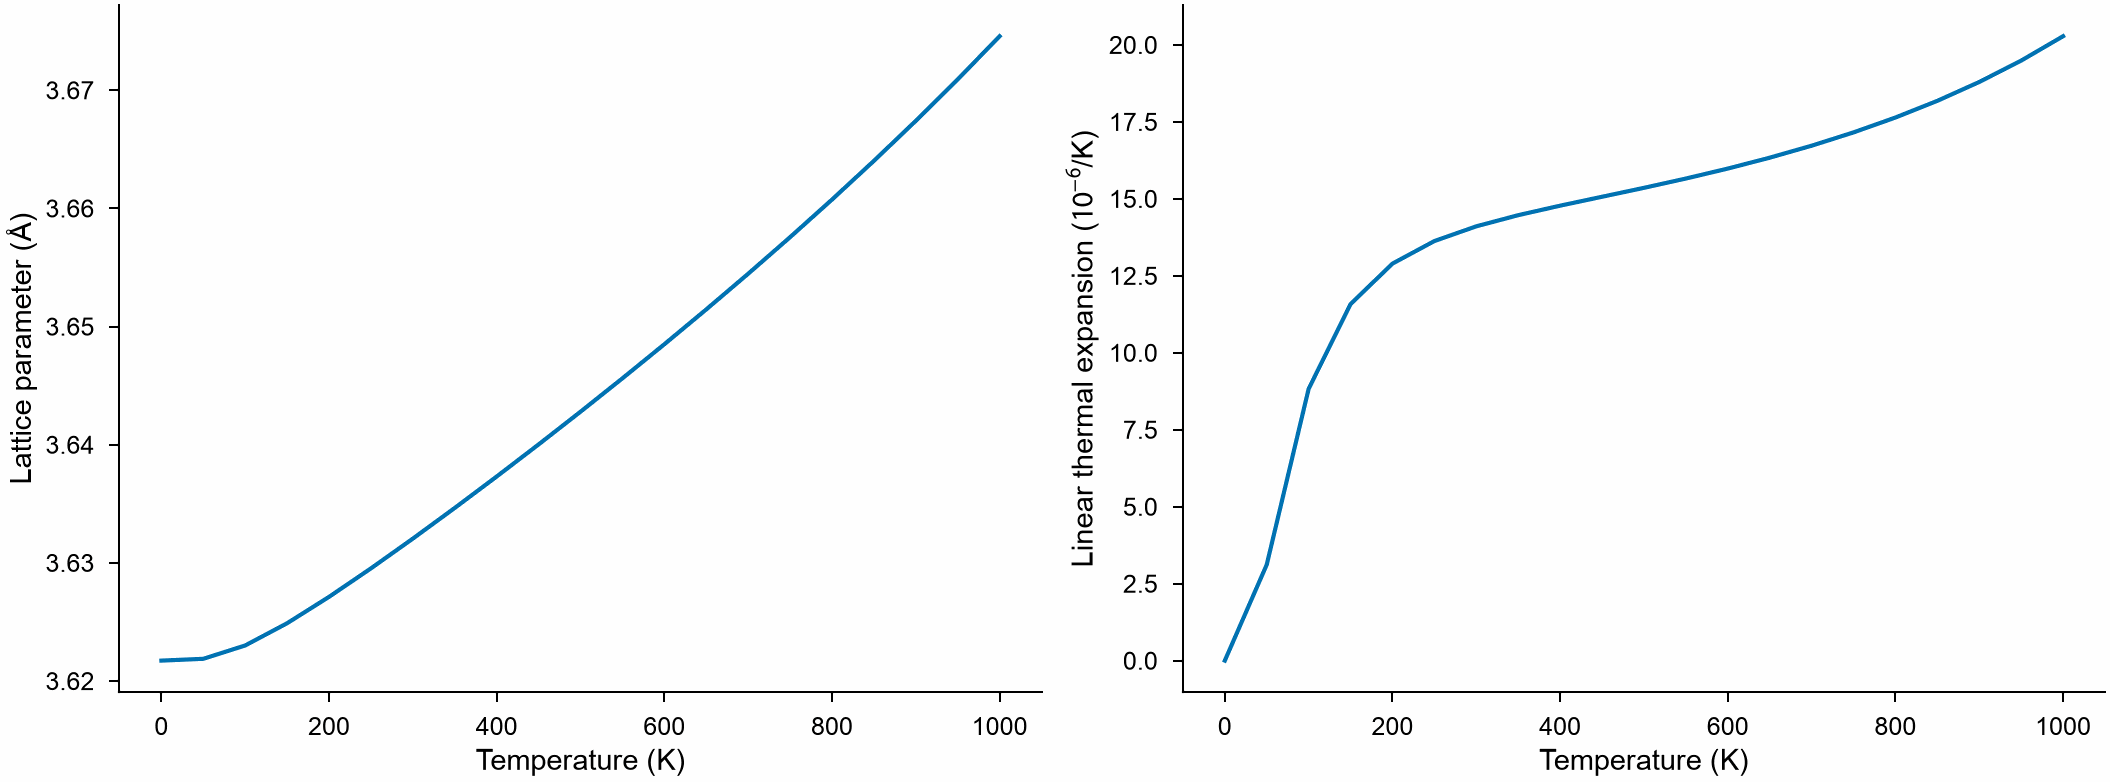
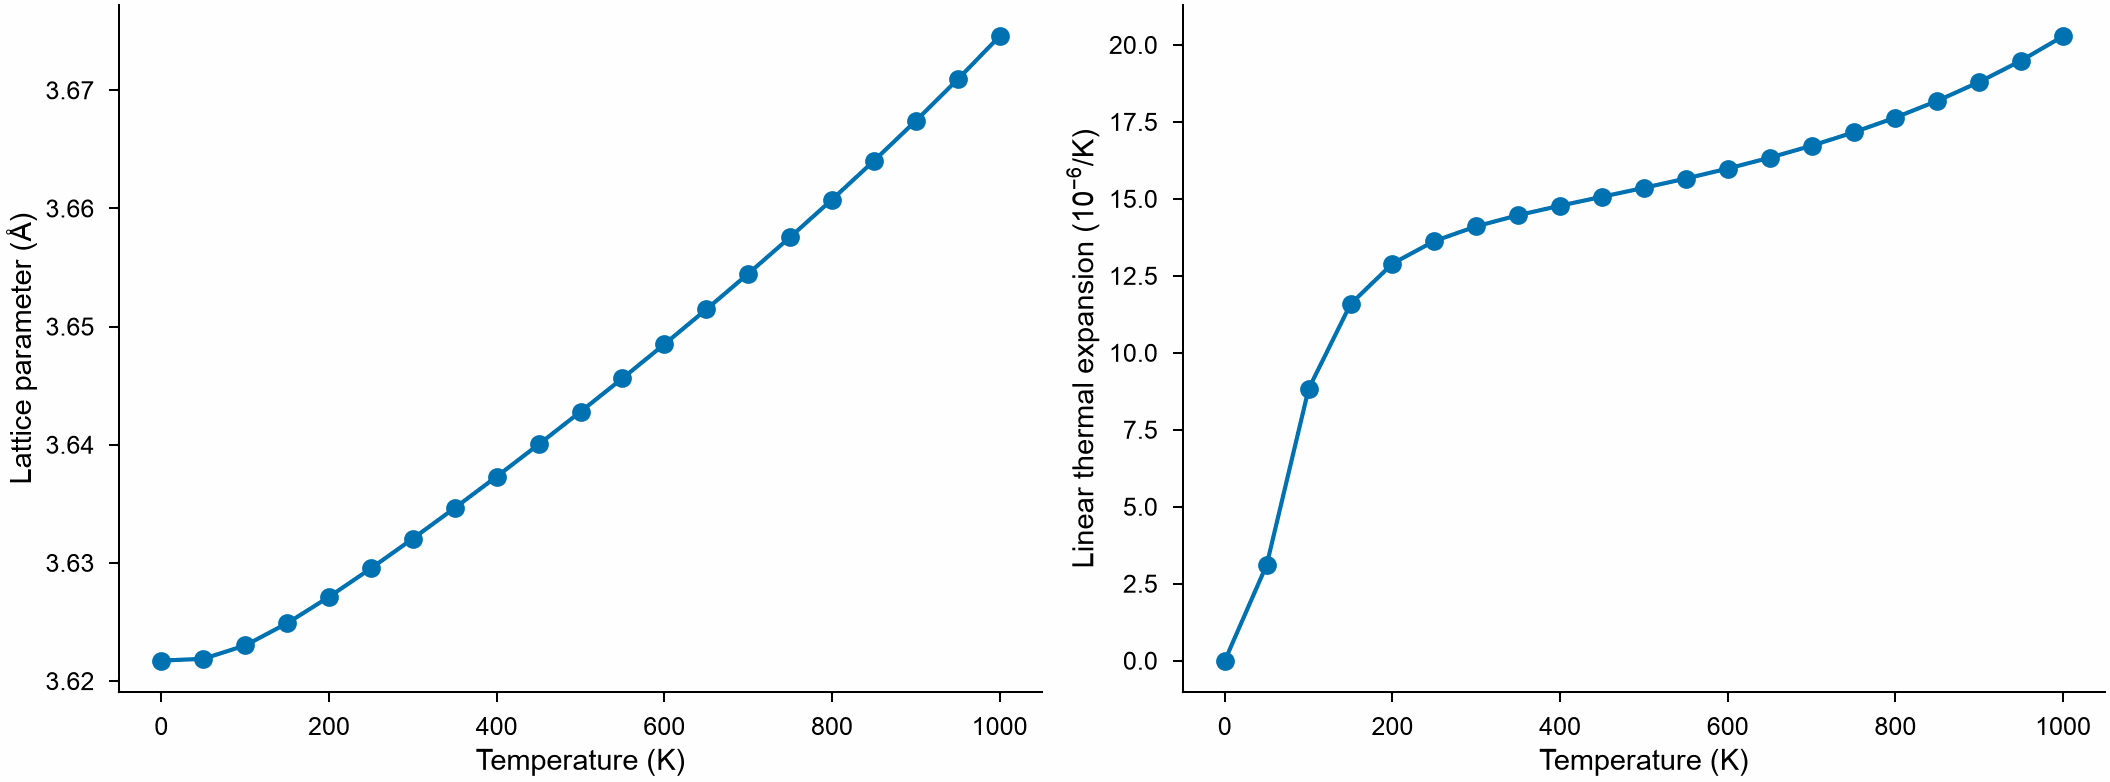
Curves of few points show them: dots on the lines of 30 points or fewer in plot.rdf, structure_factor, bond_angles and msd, and in the pictures of the quasi-harmonic approximation, thermal elastic constants and thermal conductivity
A line through a handful of points, such as the MSD of a few frames or a quantity at ten temperatures, looks smooth where nothing was computed. The pictures where lines and points stand for two methods (CrCoNi, stacking faults at finite temperature) and the continuous scan of the free energy stay as they are.

diff --git a/src/mdapy/visualization/plot.py b/src/mdapy/visualization/plot.py
@@ -383,16 +383,26 @@ def scatter(
     return ax
 
 
+# a curve of this many points or fewer shows them, as dots on its line
+_DOTS_UP_TO = 30
+
+
+def _dots(x: Any) -> dict[str, str]:
+    """The options of ``ax.plot`` for a curve at the values x: dots on a
+    curve of few points."""
+    return {"marker": "o"} if len(x) <= _DOTS_UP_TO else {}
+
+
 def rdf(result: Any, *, ax: Any = None, partial: bool = False) -> Any:
     """The radial distribution function, and optionally its partial
     functions, of a ``mdapy.analysis.RadialDistributionResult``."""
     ax = _axes(ax)
     if partial:
         for (a, b), g in result.partial.items():
-            ax.plot(result.r, g, label=f"{a}–{b}")
+            ax.plot(result.r, g, label=f"{a}–{b}", **_dots(result.r))
         ax.legend()
     else:
-        ax.plot(result.r, result.g)
+        ax.plot(result.r, result.g, **_dots(result.r))
     ax.axhline(1.0, color="0.6", lw=0.5, zorder=0)
     ax.set_xlabel("r (Å)")
     ax.set_ylabel("g(r)")
@@ -475,7 +485,7 @@ def warren_cowley(
 def structure_factor(result: Any, *, ax: Any = None) -> Any:
     """The structure factor of a ``mdapy.analysis.StructureFactorResult``."""
     ax = _axes(ax)
-    ax.plot(result.q, result.s)
+    ax.plot(result.q, result.s, **_dots(result.q))
     ax.set_xlabel("q (1/Å)")
     ax.set_ylabel("S(q)")
     return ax
@@ -485,7 +495,7 @@ def bond_angles(result: Any, *, ax: Any = None) -> Any:
     """The bond angle distribution of a
     ``mdapy.analysis.BondAngleResult``."""
     ax = _axes(ax)
-    ax.plot(result.angle, result.density)
+    ax.plot(result.angle, result.density, **_dots(result.angle))
     ax.set_xlabel("bond angle (°)")
     ax.set_ylabel("density (1/°)")
     ax.set_xlim(0, 180)
@@ -522,7 +532,7 @@ def msd(
     """
     ax = _axes(ax)
     t = result.lag * timestep
-    ax.plot(t, result.msd, label="MSD")
+    ax.plot(t, result.msd, label="MSD", **_dots(t))
     if fit is not None:
         first, last = fit
         slope, intercept = np.polyfit(t[first:last], result.msd[first:last], 1)

diff --git a/tests/visualization/test_plot.py b/tests/visualization/test_plot.py
@@ -175,6 +175,23 @@ def test_results():
     assert len(bars.patches) == len(structures.names)
 
 
+def test_curves_of_few_points_show_them():
+    crystal = build_crystal("fcc", 3.6, repeat=(3, 3, 3), elements="Cu")
+    for bins, marker in ((plot._DOTS_UP_TO, "o"), (plot._DOTS_UP_TO + 1, "None")):
+        rdf = RadialDistributionFunction(cutoff=5.0, bins=bins).compute(crystal)
+        assert plot.rdf(rdf).lines[0].get_marker() == marker
+        assert plot.rdf(rdf, partial=True).lines[0].get_marker() == marker
+        sq = StructureFactor(q_max=4.0, bins=bins).compute(crystal)
+        assert plot.structure_factor(sq).lines[0].get_marker() == marker
+        angles = BondAngleDistribution(cutoff=3.0, bins=bins).compute(crystal)
+        assert plot.bond_angles(angles).lines[0].get_marker() == marker
+    walk = np.cumsum(np.random.default_rng(2).normal(scale=0.1, size=(8, 5, 3)), axis=0)
+    frames = [mdapy.System(x, mdapy.Box(30.0), elements="Ar") for x in walk]
+    ax = plot.msd(MeanSquaredDisplacement().compute(frames), fit=(1, 6))
+    # the MSD of eight frames shows them; the fitted line has none
+    assert [line.get_marker() for line in ax.lines] == ["o", "None"]
+
+
 def test_phonons():
     from mdapy.lattice_dynamics import phonons, primitive_cell
 

diff --git a/docs/user-guide/visualization/plots.md b/docs/user-guide/visualization/plots.md
@@ -94,7 +94,9 @@ from its center.*
 | `elastic_surface(result, quantity="young_modulus", *, ax=None, extreme=None, points=60, colormap="viridis")` | the `"young_modulus"`, `"linear_compressibility"`, `"shear_modulus"` or `"poisson_ratio"` of [elastic constants](../simulation/elastic-constants.md#along-directions) along every direction, as a surface as far from the origin along each direction as the size of the value there, in the color of the value, unshaded so that the colors read on the color bar; the shear modulus and the Poisson ratio take a second direction across the first, and `extreme`, `"min"` or `"max"`, draws their smallest or largest value over it; `points` directions from the z axis to its opposite, twice as many around it; `ax` must be in 3D, made with `projection="3d"` |
 | `elastic_section(result, quantity="young_modulus", normal=(0, 0, 1), *, ax=None, extreme=None, points=360, color=None, label=None)` | the same along the directions of the plane normal to `normal`, as a curve, dashed where the value is negative; the axes of the plot are the axis of the box most nearly in the plane, laid into it, and the direction across it in the plane, named by their indices | 
 
-Each plot draws on `ax`, by default a new figure, and returns the axes.
+Each plot draws on `ax`, by default a new figure, and returns the axes. A curve of
+`rdf`, `structure_factor`, `bond_angles` or `msd` of 30 points or fewer, such as the
+MSD of a few frames, shows its points as dots on the line.
 
 ## Results
 

diff --git a/docs/about/release-notes.md b/docs/about/release-notes.md
@@ -1,5 +1,14 @@
 # Release notes
 
+## 2.1.0 (not released)
+
+- `plot.rdf`, `plot.structure_factor`, `plot.bond_angles` and `plot.msd` show the points
+  of a curve of 30 points or fewer as dots on its line, such as the MSD of a few frames.
+  The pictures of the [quasi-harmonic approximation](../user-guide/simulation/quasi-harmonic.md),
+  the [elastic constants at finite temperature](../user-guide/simulation/thermal-elastic.md)
+  and the [thermal conductivity](../user-guide/simulation/thermal-conductivity.md) show the
+  temperatures computed the same way.
+
 ## 2.1.0rc2
 
 The second release candidate of MDAPY 2.1: since 2.1.0rc1, the check of the cutoff of the

diff --git a/docs/user-guide/simulation/quasi-harmonic.md b/docs/user-guide/simulation/quasi-harmonic.md
@@ -36,10 +36,10 @@ from mdapy.visualization import plot
 t = result.temperatures
 with plot.style():
     fig, (left, right) = plot.figure("double", ncols=2)
-    left.plot(t, (4 * result.volume) ** (1 / 3))
+    left.plot(t, (4 * result.volume) ** (1 / 3), marker="o")
     left.set_xlabel("Temperature (K)")
     left.set_ylabel("Lattice parameter (Å)")
-    right.plot(t, result.thermal_expansion / 3 * 1e6)
+    right.plot(t, result.thermal_expansion / 3 * 1e6, marker="o")
     right.set_xlabel("Temperature (K)")
     right.set_ylabel(r"Linear thermal expansion ($10^{-6}$/K)")
     plot.save(fig, "images/quasi-harmonic", formats=("png",))

diff --git a/docs/user-guide/simulation/thermal-elastic.md b/docs/user-guide/simulation/thermal-elastic.md
@@ -33,7 +33,7 @@ t = qha.temperatures
 with plot.style():
     fig, ax = plot.figure("single")
     for name, (i, j) in {"C11": (0, 0), "C12": (0, 1), "C44": (3, 3)}.items():
-        (line,) = ax.plot(t, result.isothermal[:, i, j], label=name)
+        (line,) = ax.plot(t, result.isothermal[:, i, j], marker="o", label=name)
         ax.plot(t, fast.isothermal[:, i, j], ":", color=line.get_color())
     ax.set_xlabel("Temperature (K)")
     ax.set_ylabel("Isothermal elastic constant (GPa)")

diff --git a/docs/user-guide/simulation/thermal-conductivity.md b/docs/user-guide/simulation/thermal-conductivity.md
@@ -42,7 +42,7 @@ from mdapy.visualization import plot
 
 with plot.style():
     fig, (left, right) = plot.figure("single", ncols=2)
-    left.plot(temperatures, result.kappa[:, 0, 0])
+    left.plot(temperatures, result.kappa[:, 0, 0], marker="o")
     left.set(xlabel="Temperature (K)", ylabel="κ (W/(m K))", ylim=(0, None))
     at = list(temperatures).index(300.0)
     right.scatter(result.frequencies, result.lifetimes[at], s=4)
